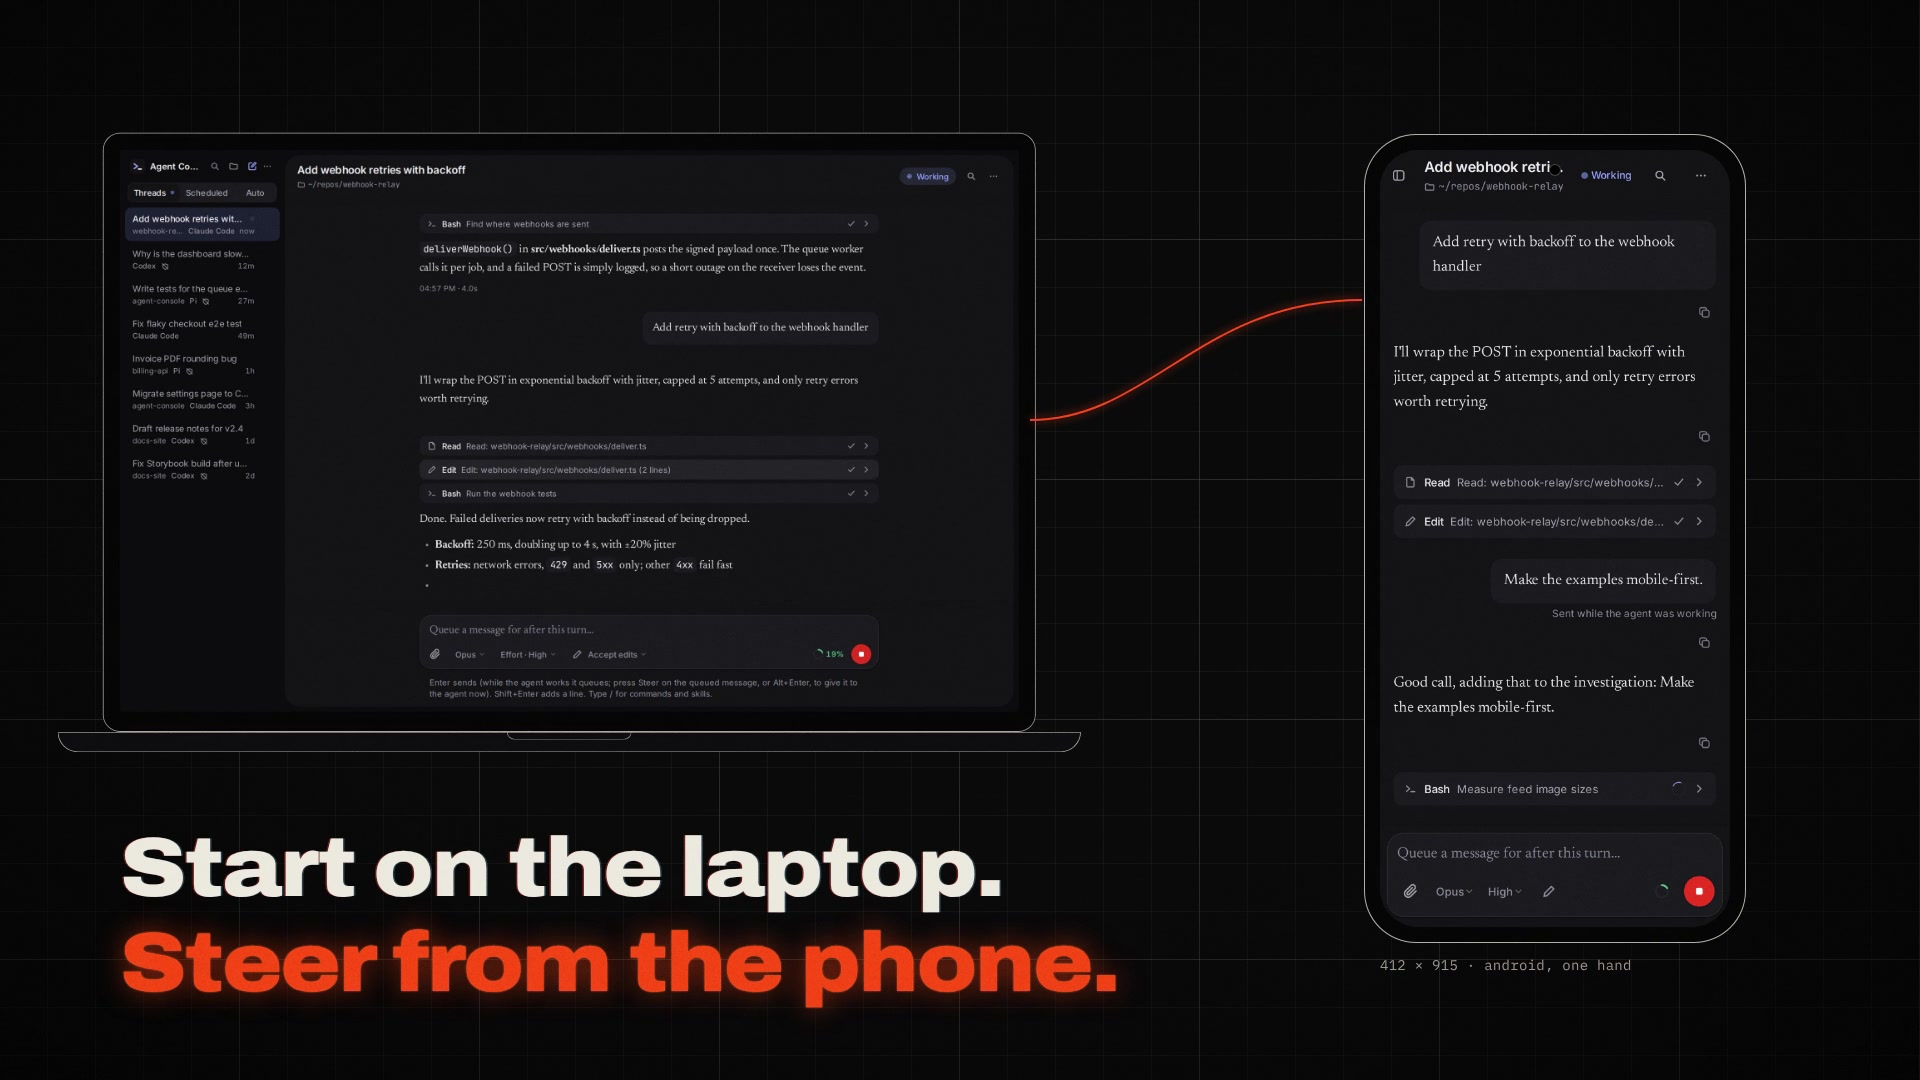
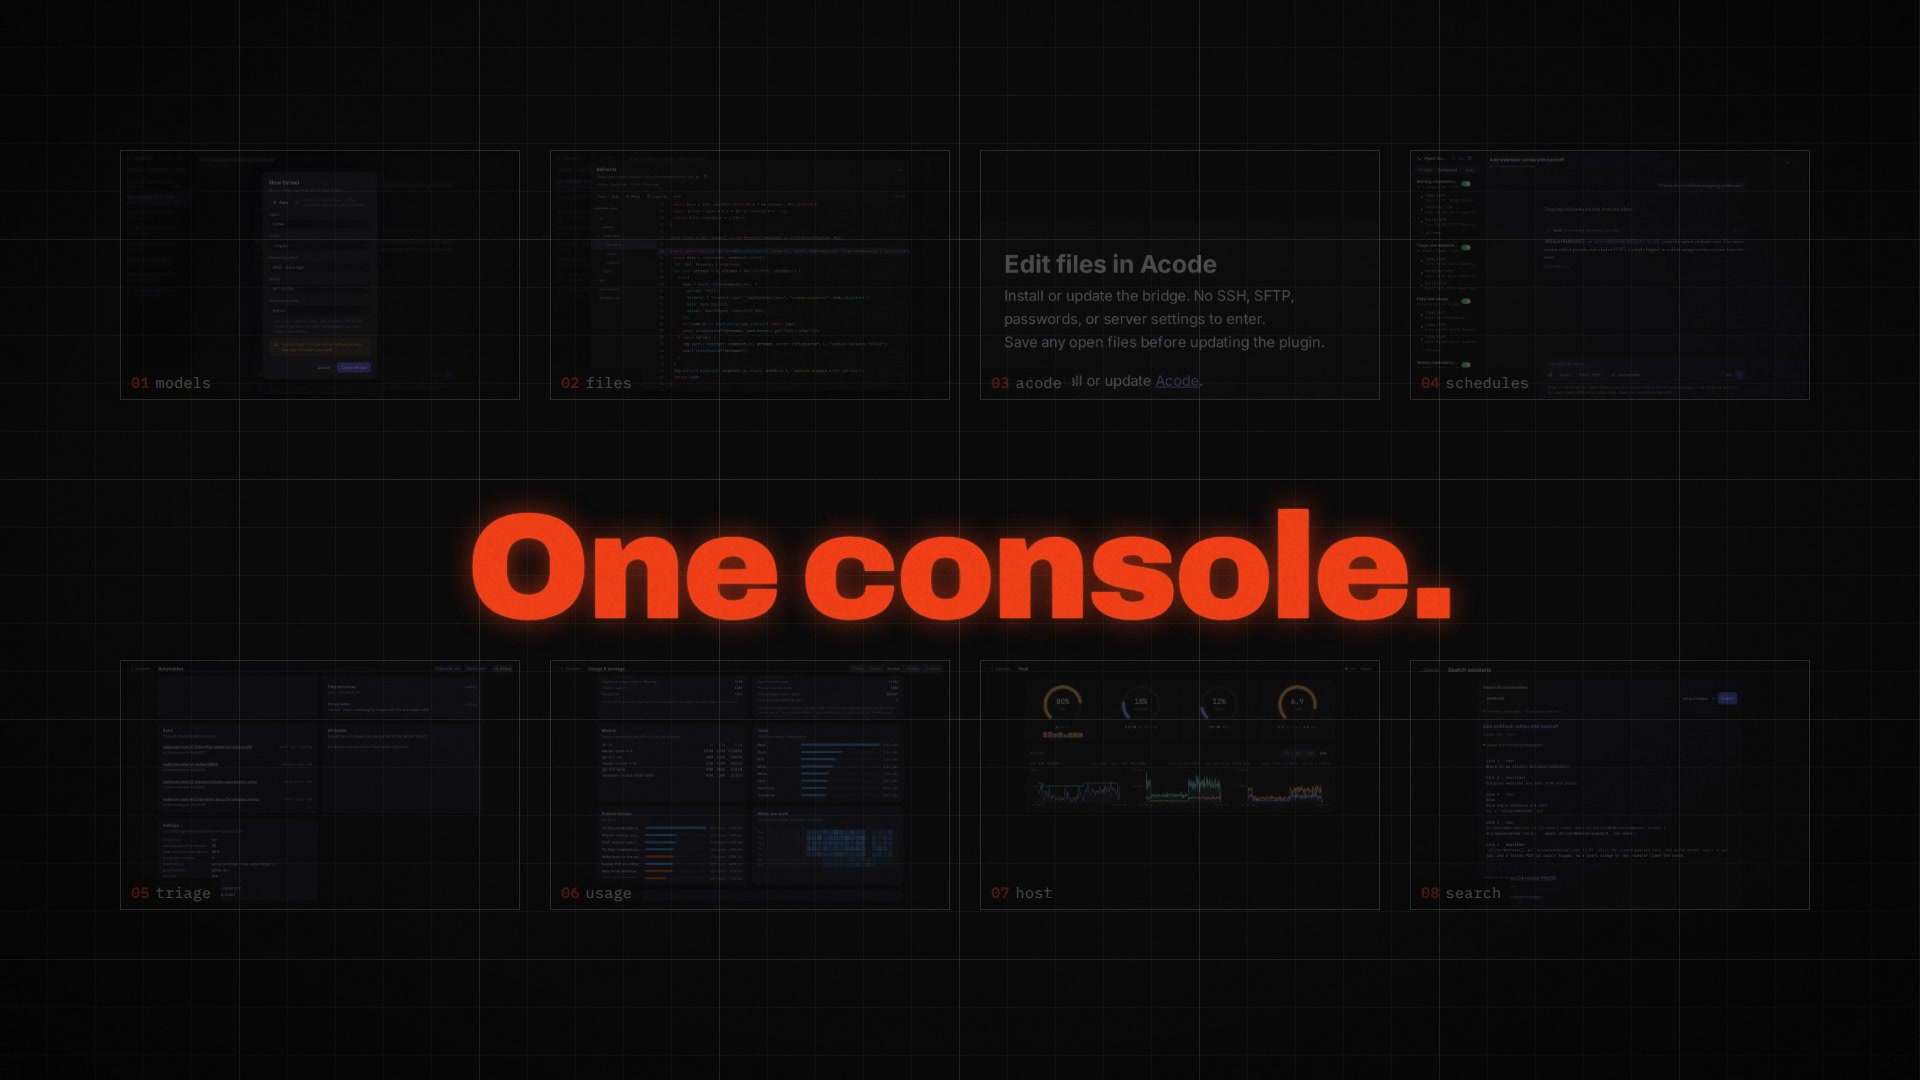
Extend the launch video into a 90-second feature tour (#93)
* Extend the launch video into a 90-second feature tour

Add eight feature chapters (models, file viewer, Acode, scheduled tasks,
GitHub triage, usage and savings, host and context, session search), a
recap sheet and a longer outro. Record the new clips from a scratch mock
instance with fictional data and extend the synthesized soundtrack to
48 bars.

* Publish the rendered 90-second feature tour and poster

---------

diff --git a/README.md b/README.md
@@ -1,8 +1,8 @@
 # agent-console
 
-[![Watch the Agent Console launch video: laptop and Android workflows](docs/brag/brag.jpg)](docs/brag/brag.mp4)
+[![Watch the Agent Console feature tour: laptop and Android workflows](docs/brag/brag.jpg)](docs/brag/brag.mp4)
 
-[Watch the 22.5-second video](docs/brag/brag.mp4) · Claude Code, Codex, and Pi, from your laptop or phone.
+[Watch the 90-second tour](docs/brag/brag.mp4) · Claude Code, Codex, and Pi, from your laptop or phone: models, files, Acode, schedules, GitHub triage, usage and host dashboards, search.
 
 Browser front end for Claude, Pi, and Codex agents running on this machine. No remote desktop. Installable as a PWA.
 
